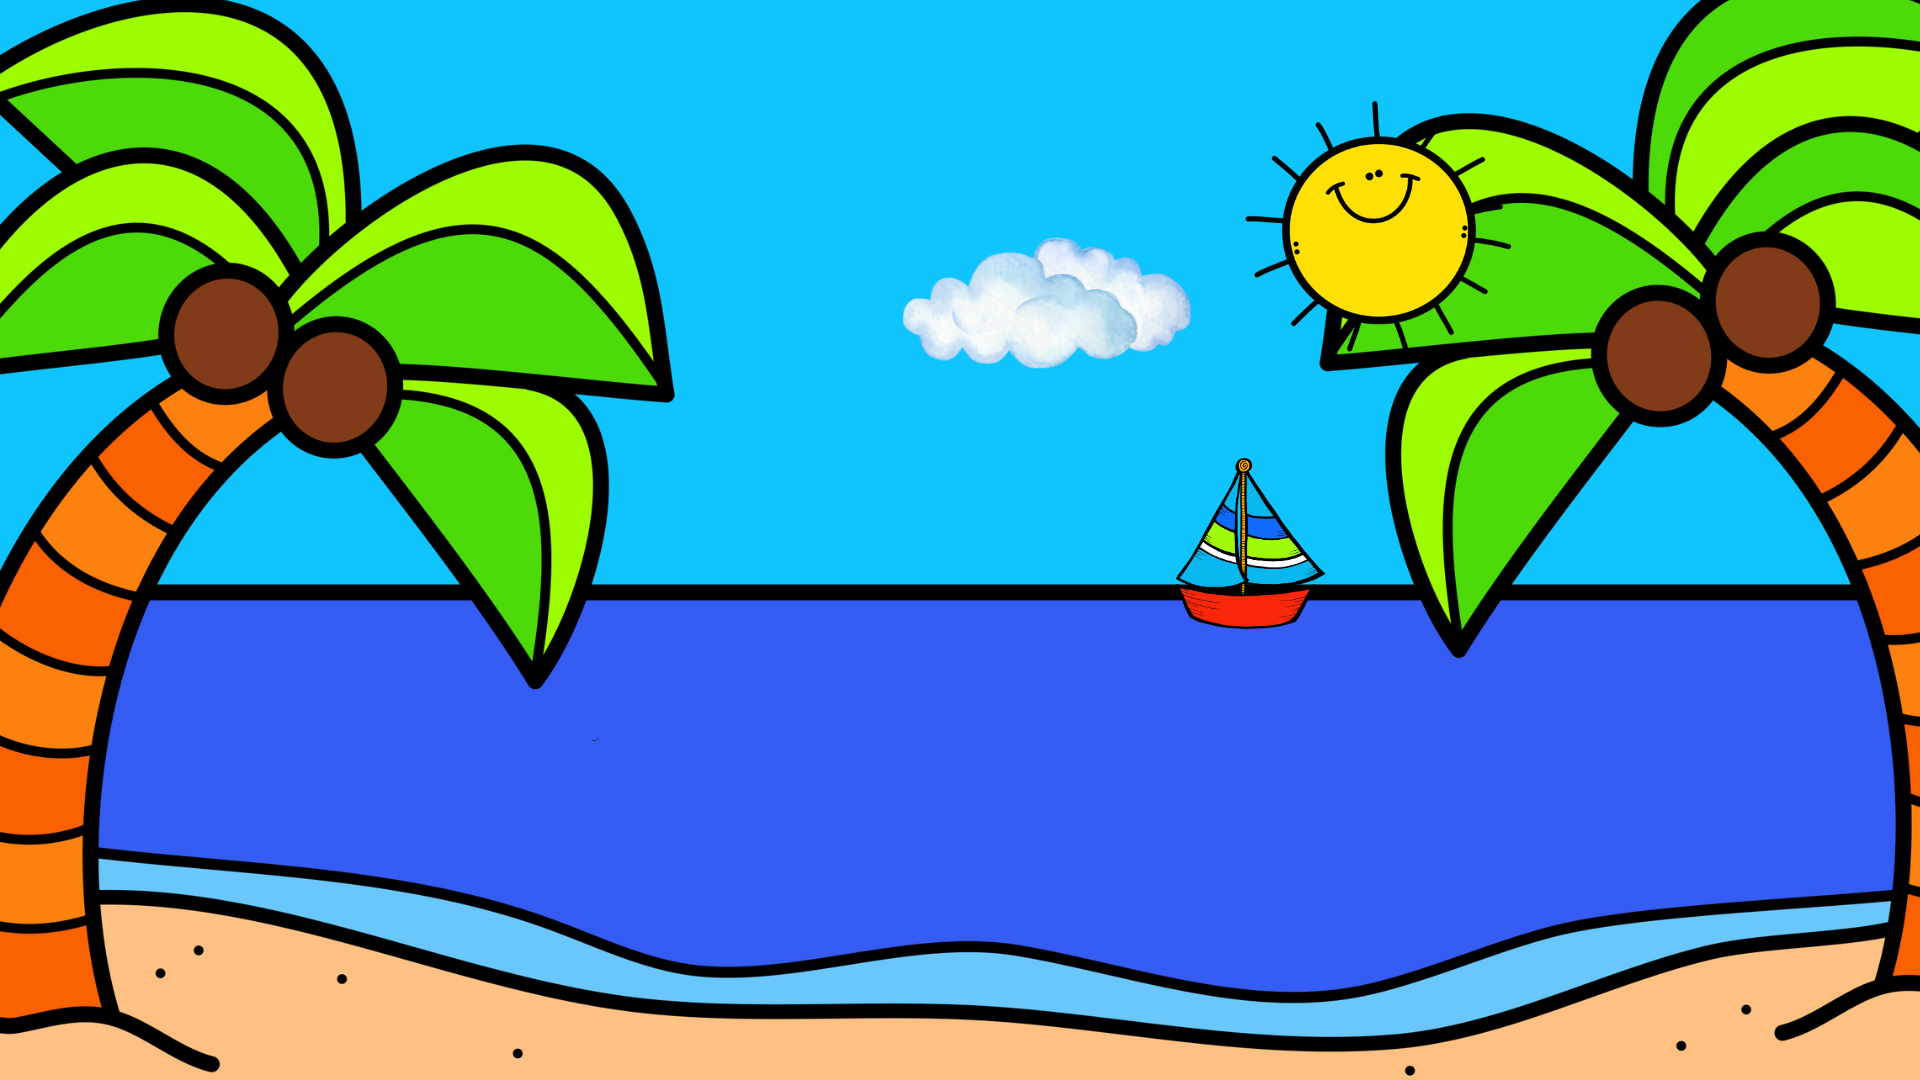
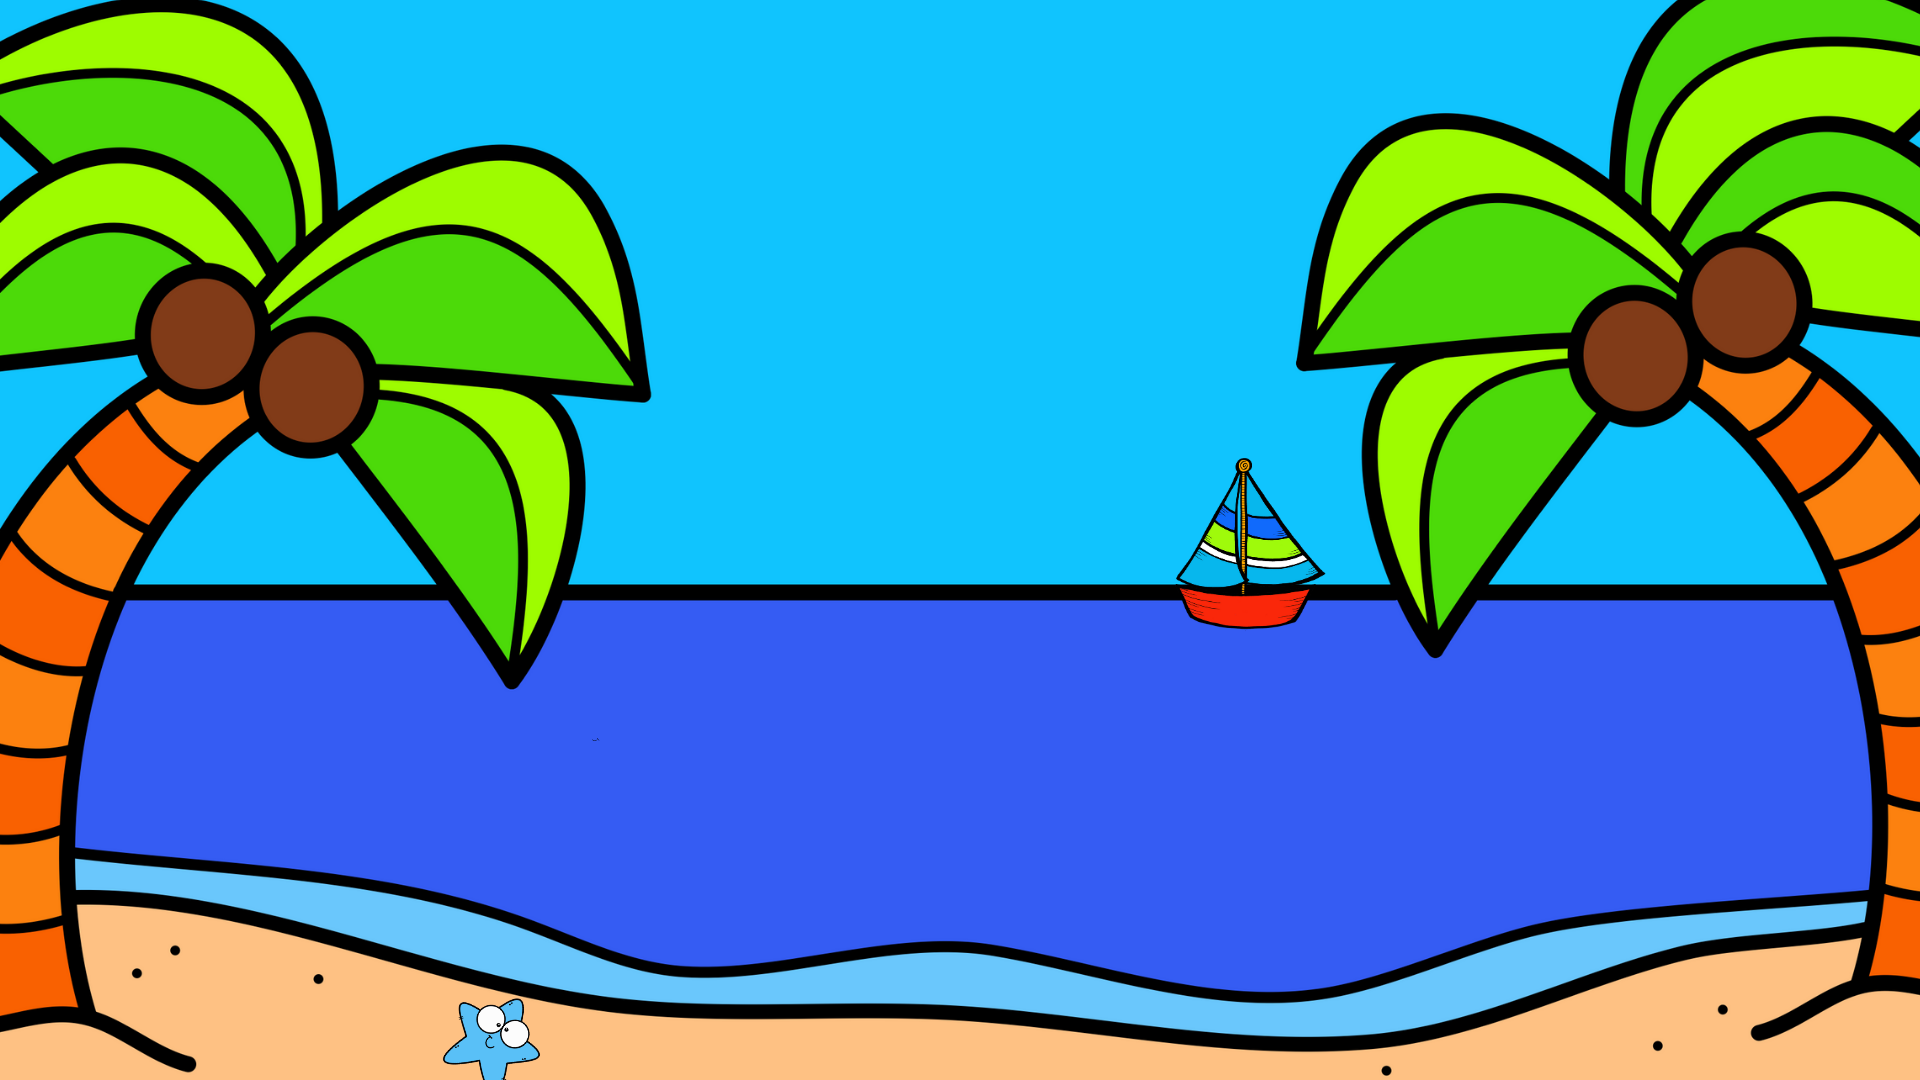
sunny island ipad finished

Changed region(s): [[0.0, 0.0, 1.0, 1.0], [0.4688, 0.2139, 0.625, 0.3361], [0.2188, 0.825, 0.2812, 0.8556]]

diff --git a/src/views/SunnyIslandWordsView.js b/src/views/SunnyIslandWordsView.js
@@ -1,16 +1,16 @@
 import React, { useState, useEffect} from 'react';
 import { ActivityIndicator } from 'react-native';
-import { ImageBackground, View, TextInput, Button, StyleSheet, Alert, Dimensions, TouchableOpacity, Image} from 'react-native';
+import { ImageBackground, View, TextInput, Button, StyleSheet, Alert, Dimensions, TouchableOpacity, Image, useWindowDimensions} from 'react-native';
 import { useProgress } from '../components/ProgressContext';
 import wordImageMapping from '../utils/wordImageMapping';
 
 
-const screenHeight = Dimensions.get('window').height;
-const screenWidth = Dimensions.get('window').width;
-
 const SunnyIslandWordsView = ({ navigation }) => {
 
     const { sunnyIslandStatus, isLoading } = useProgress();
+    const { height: screenHeight, width: screenWidth } = useWindowDimensions();
+    const isLandscape = screenWidth > screenHeight;
+    const aspectRatio = screenWidth / screenHeight;
 
     const getImageSource = (word) => {
         // Check if the word is completed using the flyingHighStatus
@@ -27,6 +27,161 @@ const SunnyIslandWordsView = ({ navigation }) => {
         );
     }
 
+    const styles = StyleSheet.create({
+        loadingContainer: {
+            flex: 1,
+            justifyContent: 'center',
+            alignItems: 'center',
+        },
+        background: {
+            flex: 1,
+            flexDirection: 'column',
+        },
+        top: {
+            flex: 1,
+            justifyContent: 'center',
+            alignItems: 'center',
+        },
+        middle: {
+            flex: 1,
+            flexDirection: 'row',
+        },
+        middleLeft: {
+            flex: 1,
+        },
+        middleMiddle: {
+            flex: 1,
+        },
+        middleRight: {
+            flex: 1,
+        },
+        middleBottomSection: {
+            flex: 1,
+            flexDirection: 'row',
+            alignItems: 'center',
+        },
+        middleTopSection: {
+            flex: 3,
+            justifyContent: 'flex-start',
+            alignItems: 'flex-end',
+            flexDirection: 'row',
+        },
+        bottom: {
+            flex: .7,
+            flexDirection: 'row',
+        },
+        bottomLeft: {
+            flex: 1,
+            justifyContent: 'flex-start',
+            alignItems: 'flex-start',
+        },
+        bottomMiddle: {
+            flex: 1,
+            flexDirection: 'row',
+        },
+        bottomRight: {
+            flex: 1,
+            flexDirection: 'row',
+        },
+        iOpacity: {
+            height: isLandscape ? '23%' : '15%',
+            width: isLandscape ? '40%' : '45%',
+            marginTop: '10%',
+        },
+        fromOpacity: {
+            height: isLandscape ? '23%' : '15%',
+            width: isLandscape ? '40%' : '45%',
+            marginTop: '8%',
+            marginLeft: '5%',
+    
+        },
+        atOpacity: {
+            height: isLandscape ? '23%' : '15%',
+            width: isLandscape ? '40%' : '45%',
+            marginTop: '10%',
+        },
+        hisOpacity: {
+            height: isLandscape ? '23%' : '15%',
+            width: isLandscape ? '40%' : '45%',
+            marginTop: '5%',
+            marginLeft: '5%',
+        },
+        thisOpacity: {
+            height: isLandscape ? '65%' : '45%',
+            width: isLandscape ? '40%' : '45%',
+            marginTop: '4%',
+
+        },
+        theyOpacity: {
+            height: isLandscape ? '65%' : '45%',
+            width: isLandscape ? '40%' : '45%',
+            marginTop: '2%',
+            marginLeft: '5%',
+            
+        },
+        withOpacity: {
+            height: isLandscape ? '23%' : '15%',
+            width: isLandscape ? '40%' : '45%',
+            marginTop: '10%',
+        },
+        asOpacity: {
+            height: isLandscape ? '23%' : '15%',
+            width: isLandscape ? '40%' : '45%',
+            marginTop: '8%',
+            marginLeft: '10%',
+        },
+        onOpacity: {
+            height: isLandscape ? '23%' : '15%',
+            width: isLandscape ? '40%' : '45%',
+            marginTop: '10%',
+            marginTop: '2%',
+    
+        },
+        haveOpacity: {
+            height: isLandscape ? '23%' : '15%',
+            width: isLandscape ? '40%' : '45%',
+            marginBottom: '3%',
+            marginLeft: '5%',
+        },
+        oneOpacity: {
+            height: isLandscape ? '65%' : '45%',
+            width: isLandscape ? '40%' : '45%',
+            marginTop: '4%',
+        },
+        areOpacity: {
+            height: isLandscape ? '65%' : '45%',
+            width: isLandscape ? '40%' : '45%',
+            marginTop: '6%',
+            marginLeft: '5%',
+        },
+        orOpacity: {
+            height: isLandscape ? '23%' : '15%',
+            width: isLandscape ? '40%' : '45%',
+            marginLeft: '15%',
+            marginTop: '10%',
+        },
+        beOpacity: {
+            height: isLandscape ? '65%' : '45%',
+            width: isLandscape ? '40%' : '45%',
+            marginTop: '8%',
+            marginLeft: '5%',
+        },
+        hadOpacity: {
+            height: isLandscape ? '65%' : '45%',
+            width: isLandscape ? '40%' : '45%',
+            marginTop: '5%',
+            marginLeft: '5%',
+        },
+        cloudSunImage: {
+            width: '30%',
+            height: '50%',
+        },
+        Image: {
+            width: '100%',
+            height: '100%',
+        },
+    });
+
     return (
         
             <ImageBackground
@@ -35,6 +190,8 @@ const SunnyIslandWordsView = ({ navigation }) => {
                 style={styles.background}
             >
                 <View style={styles.top}>
+
+                    <Image source={require('../assets/sunnyIslandView/cloudSun.png')} resizeMode="contain" style={styles.cloudSunImage} />
 
                 </View>
 
@@ -143,198 +300,6 @@ const SunnyIslandWordsView = ({ navigation }) => {
     );
 };
 
-const styles = StyleSheet.create({
-    loadingContainer: {
-        flex: 1,
-        justifyContent: 'center',
-        alignItems: 'center',
-    },
-    background: {
-        flex: 1,
-        flexDirection: 'column',
-    },
-    top: {
-        flex: 1,
-    },
-    middle: {
-        flex: 1,
-        borderColor: 'black',
-        borderWidth: 2,
-        flexDirection: 'row',
-    },
-    middleLeft: {
-        flex: 1,
-        borderColor: 'black',
-        borderWidth: 2,
-    },
-    middleMiddle: {
-        flex: 1,
-        borderColor: 'black',
-        borderWidth: 2,
-    },
-    middleRight: {
-        flex: 1,
-        borderColor: 'black',
-        borderWidth: 2,
-    },
-    middleBottomSection: {
-        flex: 1,
-        borderColor: 'black',
-        borderWidth: 2,
-        flexDirection: 'row',
-    },
-    middleTopSection: {
-        flex: 3,
-        borderColor: 'black',
-        borderWidth: 2,
-        justifyContent: 'flex-start',
-        alignItems: 'flex-end',
-        flexDirection: 'row'
-    },
-    bottom: {
-        flex: .7,
-        flexDirection: 'row',
-    },
-    bottomLeft: {
-        flex: 1,
-        justifyContent: 'flex-start',
-        alignItems: 'flex-start',
-        borderColor: 'black',
-        borderWidth: 2,
-    },
-    bottomMiddle: {
-        flex: 1,
-        borderColor: 'black',
-        borderWidth: 2,
-        flexDirection: 'row',
-    },
-    bottomRight: {
-        flex: 1,
-        borderColor: 'black',
-        borderWidth: 2,
-        flexDirection: 'row',
-    },
-    iOpacity: {
-        height: '23%',
-        width: '40%',
-        borderColor: 'black',
-        borderWidth: 2,
-        marginTop: '10%',
-    },
-    fromOpacity: {
-        height: '23%',
-        width: '40%',
-        borderColor: 'black',
-        borderWidth: 2,
-        marginTop: '8%',
-        marginLeft: '5%',
 
-    },
-    atOpacity: {
-        height: '23%',
-        width: '40%',
-        borderColor: 'black',
-        borderWidth: 2,
-        marginTop: '10%',
-    },
-    hisOpacity: {
-        height: '23%',
-        width: '40%',
-        borderColor: 'black',
-        borderWidth: 2,
-        marginTop: '5%',
-        marginLeft: '5%',
-    },
-    thisOpacity: {
-        height: '60%',
-        width: '40%',
-        borderColor: 'black',
-        borderWidth: 2,
-        marginTop: '4%',
-        marginLeft: '10%',
-    },
-    theyOpacity: {
-        height: '60%',
-        width: '40%',
-        borderColor: 'black',
-        borderWidth: 2,
-        marginTop: '2%',
-        marginLeft: '5%',
-    },
-    withOpacity: {
-        height: '23%',
-        width: '40%',
-        borderColor: 'black',
-        borderWidth: 2,
-        marginTop: '10%',
-    },
-    asOpacity: {
-        height: '23%',
-        width: '40%',
-        borderColor: 'black',
-        borderWidth: 2,
-        marginTop: '8%',
-        marginLeft: '10%',
-    },
-    onOpacity: {
-        height: '23%',
-        width: '40%',
-        borderColor: 'black',
-        borderWidth: 2,
-        marginTop: '10%',
-        marginTop: '2%',
-
-    },
-    haveOpacity: {
-        height: '23%',
-        width: '40%',
-        borderColor: 'black',
-        borderWidth: 2,
-        marginBottom: '3%',
-        marginLeft: '5%',
-    },
-    oneOpacity: {
-        height: '60%',
-        width: '40%',
-        borderColor: 'black',
-        marginTop: '4%',
-        borderWidth: 2,
-    },
-    areOpacity: {
-        height: '60%',
-        width: '40%',
-        borderColor: 'black',
-        borderWidth: 2,
-        marginTop: '6%',
-        marginLeft: '5%',
-    },
-    orOpacity: {
-        height: '23%',
-        width: '40%',
-        borderColor: 'black',
-        borderWidth: 2,
-        marginTop: '10%',
-    },
-    beOpacity: {
-        height: '60%',
-        width: '40%',
-        borderColor: 'black',
-        borderWidth: 2,
-        marginTop: '8%',
-        marginLeft: '5%',
-    },
-    hadOpacity: {
-        height: '60%',
-        width: '40%',
-        borderColor: 'black',
-        borderWidth: 2,
-        marginTop: '5%',
-        marginLeft: '5%',
-    },
-    Image: {
-        width: '100%',
-        height: '100%',
-    },
-});
 
 export default SunnyIslandWordsView;
